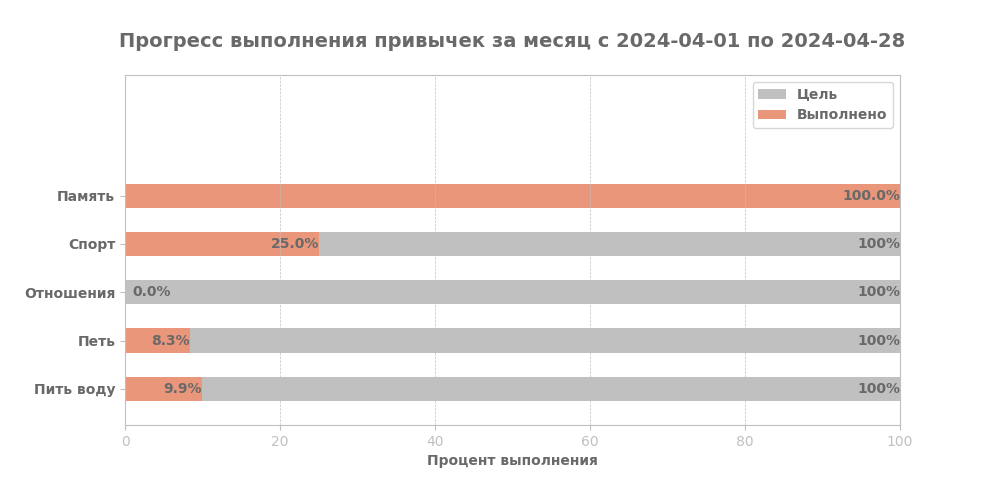
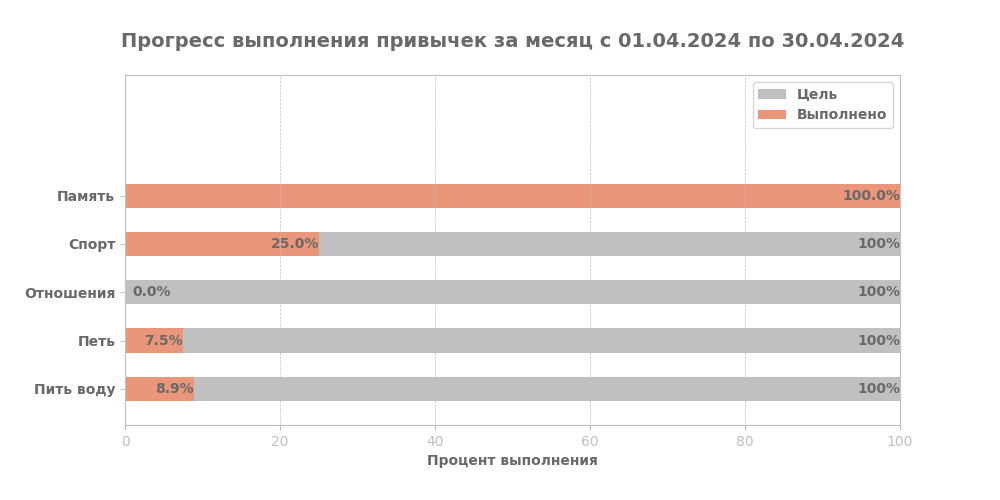
ыв

Changed region(s): [[0.124, 0.06, 0.899, 0.12], [0.155, 0.75, 0.217, 0.81], [0.124, 0.66, 0.217, 0.69]]

diff --git a/progress_chart.py b/progress_chart.py
@@ -14,6 +14,7 @@ def fetch_progress_data(user_id, period):
     conn = sqlite3.connect('easy_habit.db')
     cur = conn.cursor()
     today = datetime.now().date()
+    last_day_of_month = None  # Переменная для хранения последнего дня месяца
 
     if period == 'week':
         start_date = today - timedelta(days=today.weekday())  # Понедельник текущей недели
@@ -58,13 +59,13 @@ def fetch_progress_data(user_id, period):
         percentage_done = min((total_done / target) * 100, 100) if target != 0 else 0
         results[name] = {'percentage_done': percentage_done, 'total_done': total_done, 'target': target}
 
-    return results, start_date, end_date
+    return results, start_date, end_date, last_day_of_month
 
 
 def plot_progress_chart(user_id, period):
     if fetch_progress_data(user_id, period) is None:
         return None
-    data, start_date, end_date = fetch_progress_data(user_id, period)
+    data, start_date, end_date, last_day_of_month = fetch_progress_data(user_id, period)
     names = list(data.keys())
     percentages = [data[name]['percentage_done'] for name in names]
 
@@ -81,7 +82,9 @@ def plot_progress_chart(user_id, period):
     ax.invert_yaxis()  # Начинаем снизу
     ax.set_xlabel('Процент выполнения', color = "dimgray", fontweight='bold')
     ax.set_title(
-        f'Прогресс выполнения привычек за {"неделю" if period == "week" else "месяц"} с {start_date} по {end_date}',pad =20, color = "dimgray", fontweight='bold', fontsize = 14)
+        f'Прогресс выполнения привычек за {"неделю" if period == "week" else "месяц"} с {start_date.strftime("%d.%m.%Y")} по {(end_date if period == "week" else last_day_of_month).strftime("%d.%m.%Y")}',
+        pad=20, color="dimgray", fontweight='bold', fontsize=14)
+
     ax.xaxis.set_major_locator(ticker.MultipleLocator(20))
     legend = ax.legend(loc='upper right')  # Перемещаем легенду в правый верхний угол
     for text in legend.get_texts():
@@ -157,6 +160,9 @@ def get_file_path(chat_id, period):
             bot.send_photo(chat_id, photo, caption=f"Прогресс выполнения привычек за {period_text}")
     return file_path  # Возвращаем file_path для функции удаления
 
+
+plot_progress_chart(1111111111, 'week')
+plot_progress_chart(1111111111, 'month')
 def delete_file(file_path):
     if os.path.exists(file_path):
         os.remove(file_path)  # Удаляем файл с графиком
@@ -166,7 +172,7 @@ def delete_file(file_path):
 
 #Как нам ее вызывать:
 # Отправляем график и получаем путь к файлу
-file_path = get_file_path(chat_id, period)
+#file_path = get_file_path(chat_id, period)
 # Если график построен и путь к файлу есть, то удаляем его
-if file_path:
-    remove_chart(file_path)
+#if file_path:
+ #   delete_file(file_path)
